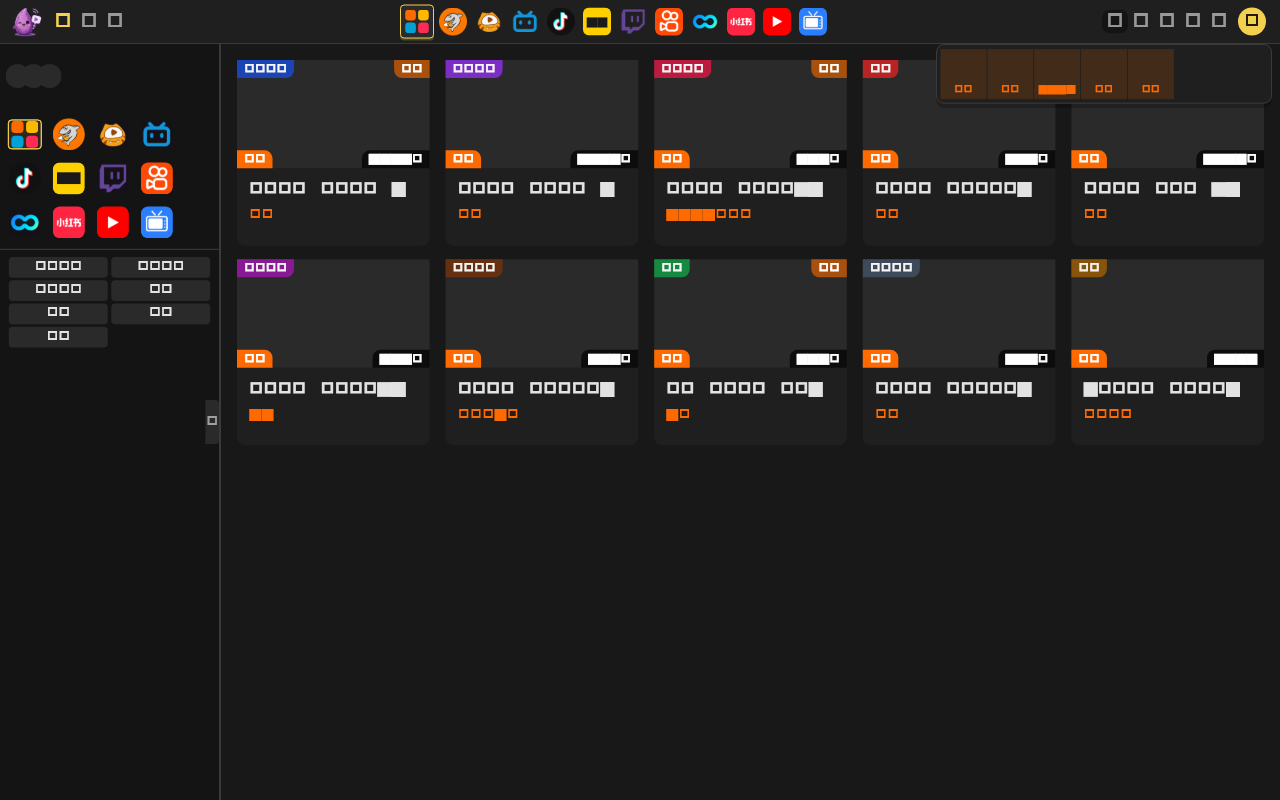
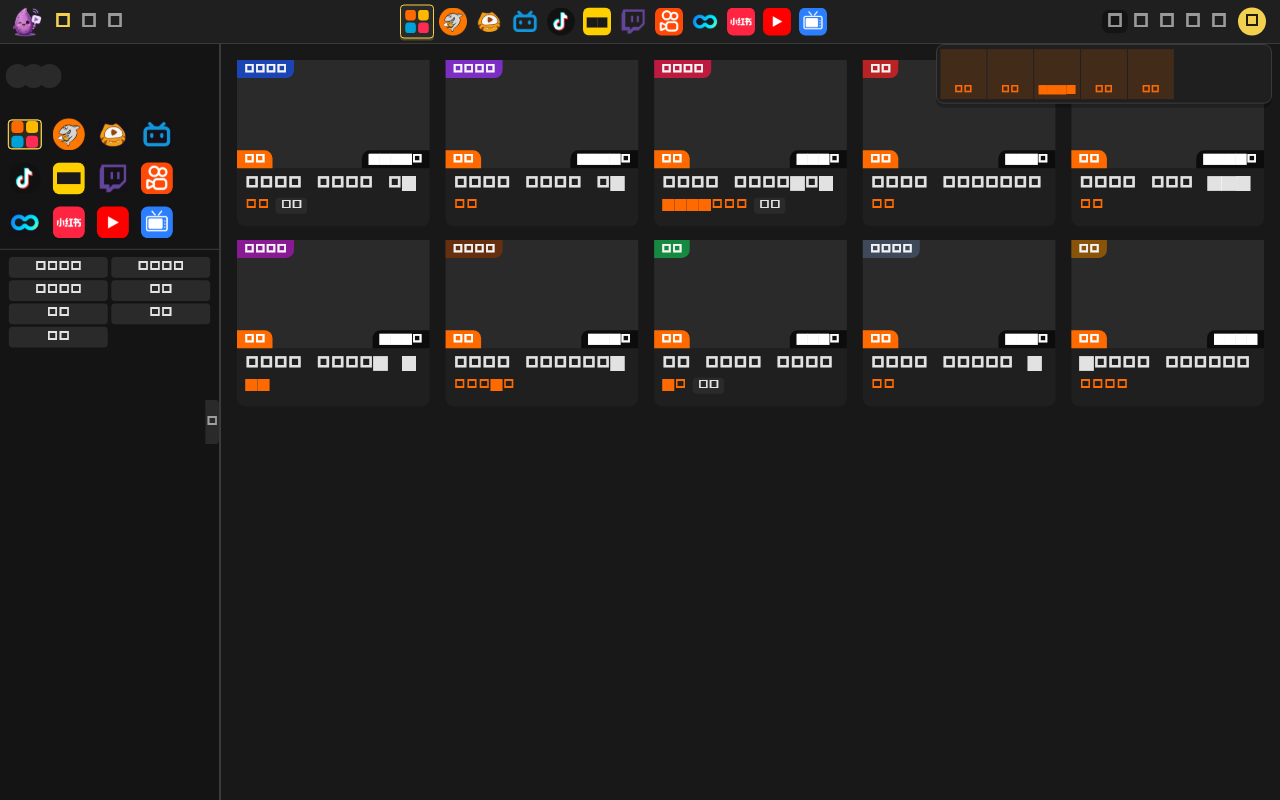
fix(ui): 房间卡元信息恒定两行 + 网格高度预算修正
用户口径:封面下面第一行主播名、第二行各种特色 chip;有的主播/平台没有 chip。
此前元信息行会塌陷、卡片底部还留 ~26px 空白。

- RoomCard:元信息区按参考实现 RoomCard.vue 重做 —— body padding 6/8/8、
  第 1 行房间标题(缺标题回退主播名,都缺则占位不塌陷)、第 2 行固定 17px 行高
  承载「主播名 + 特色 chip」;chip 取促销/画质标签(原本压在封面右上角,同一
  信息不在两处重复)与「平台名(封面平台角标隐藏时)」,并加锚点
  room-meta-chip-{text}。
- RoomGrid:文本区预算 80 → 58(两行元信息实测 54 + 4px 余量),消除卡片底部空白。
- RoomGrid 预算宽修正:此前用「容器宽」算格宽,漏扣 GridView 自身 padding →
  真实格宽比预算窄几个百分点,而元信息行高固定,窄格(category 页 91.5px)出现
  RenderFlex overflowed by 0.663px;现按可用宽计算。
- 测试:新增 room_card_meta_height_test(缺主播名/缺标题/有 chip 三种卡片必须等高、
  特色 chip 就位、平台名 chip 仅在角标隐藏时出现、padding 契约);
  room_card_badges_test 的促销角标断言改为元信息行 chip。

验证:flutter analyze 0 issue;全量除 latency 网络基准(并行轨抢资源)外全绿;
hover_*/follow_style_*/play_style_* golden 重生成并同步截图目录。

diff --git a/lib/src/features/browse/widgets/room_card.dart b/lib/src/features/browse/widgets/room_card.dart
@@ -4,6 +4,7 @@ import 'package:live_parser/live_parser.dart';
 
 import '../../../shared/presentation/design_tokens.dart';
 import '../../../shared/presentation/widgets/cover_badges.dart';
+import '../../../shared/presentation/platform_brands.dart';
 import '../../../shared/presentation/zishu_tokens.dart';
 import '../../follow/widgets/follow_common.dart';
 
@@ -46,31 +47,110 @@ class RoomCard extends StatelessWidget {
           crossAxisAlignment: CrossAxisAlignment.stretch,
           children: [
             _Cover(room: room, showPlatformBadge: showPlatformBadge),
-            Padding(
-              padding: const EdgeInsets.all(AppSpacing.md),
-              child: Column(
-                crossAxisAlignment: CrossAxisAlignment.start,
-                children: [
-                  Text(
-                    room.title,
-                    maxLines: 1,
-                    overflow: TextOverflow.ellipsis,
-                    style: AppTypography.title.copyWith(fontSize: 14),
-                  ),
-                  const SizedBox(height: AppSpacing.sm),
-                  // 分类已由封面左上角色块承载,文本区只保留主播名。
-                  FollowAnchorName(
-                    site: room.site,
-                    name: room.anchorName,
-                    live: room.online.trim().isNotEmpty,
-                    fontSize: 12,
-                    fontWeight: FontWeight.w500,
-                  ),
-                ],
-              ),
+            _RoomCardMeta(
+              room: room,
+              showPlatformBadge: showPlatformBadge,
             ),
           ],
         ),
+      ),
+    );
+  }
+}
+
+/// 封面下元信息:恒定**两行**。
+///
+/// 对齐参考实现 `RoomCard.vue` 的 `.room-card__body`(padding 6/8/8)与
+/// `.room-card__meta`(margin-top 4 / gap 6):
+/// - 第 1 行:房间标题(缺标题回退主播名,仍缺则占位不塌陷);
+/// - 第 2 行:主播名 + 特色 chip(促销/画质标签;单平台网格下平台名也作 chip)。
+///
+/// **两行高度必须恒定**:有的主播没有名字、多数房间没有 chip,若不占位,同一
+/// 网格里卡片高度参差(用户报「都保持2行的行高,不要多余 padding」)。
+class _RoomCardMeta extends StatelessWidget {
+  const _RoomCardMeta({required this.room, required this.showPlatformBadge});
+
+  final RoomSummary room;
+  final bool showPlatformBadge;
+
+  /// 元信息行高:12px 字号 × 1.35 行高(与参考实现 `min-height: 1.35em` 同口径)。
+  static const double _metaLineHeight = 17;
+
+  @override
+  Widget build(BuildContext context) {
+    final title = room.title.trim().isNotEmpty
+        ? room.title
+        : (room.anchorName.trim().isNotEmpty ? room.anchorName : ' ');
+    final anchor = room.anchorName.trim();
+    final chips = <String>[
+      if (room.promoTag != null && room.promoTag!.trim().isNotEmpty)
+        room.promoTag!.trim(),
+      // 平台名在封面左下角标隐藏(单平台网格)时改由 chip 承载,避免信息丢失。
+      if (!showPlatformBadge) ?PlatformBrandCatalog.byId(room.site)?.name,
+    ];
+    return Padding(
+      // 参考实现 .room-card__body:padding 6px 8px 8px。
+      padding: const EdgeInsets.fromLTRB(8, 6, 8, 8),
+      child: Column(
+        crossAxisAlignment: CrossAxisAlignment.start,
+        children: [
+          Text(
+            title,
+            maxLines: 1,
+            overflow: TextOverflow.ellipsis,
+            style: AppTypography.title.copyWith(fontSize: 14),
+          ),
+          const SizedBox(height: AppSpacing.xs),
+          // 固定行高:内容缺失也占满一行,保证同网格卡片等高。
+          SizedBox(
+            height: _metaLineHeight,
+            child: Row(
+              children: [
+                if (anchor.isNotEmpty)
+                  Flexible(
+                    child: FollowAnchorName(
+                      site: room.site,
+                      name: anchor,
+                      live: room.online.trim().isNotEmpty,
+                      fontSize: 12,
+                      fontWeight: FontWeight.w500,
+                    ),
+                  ),
+                if (anchor.isNotEmpty && chips.isNotEmpty)
+                  const SizedBox(width: 6),
+                for (final chip in chips) ...[
+                  _MetaChip(key: Key('room-meta-chip-$chip'), text: chip),
+                  if (chip != chips.last) const SizedBox(width: 6),
+                ],
+              ],
+            ),
+          ),
+        ],
+      ),
+    );
+  }
+}
+
+/// 元信息行里的特色 chip:对齐 `.room-card__tag`(小圆角浅底、次级文字)。
+class _MetaChip extends StatelessWidget {
+  const _MetaChip({super.key, required this.text});
+
+  final String text;
+
+  @override
+  Widget build(BuildContext context) {
+    final tokens = context.tokens;
+    return Container(
+      padding: const EdgeInsets.symmetric(horizontal: 5, vertical: 1),
+      decoration: BoxDecoration(
+        color: tokens.surfaceRaised,
+        borderRadius: AppRadius.allSm,
+      ),
+      child: Text(
+        text,
+        maxLines: 1,
+        overflow: TextOverflow.ellipsis,
+        style: AppTypography.caption.copyWith(fontSize: 10.5),
       ),
     );
   }
@@ -115,17 +195,8 @@ class _Cover extends StatelessWidget {
               cid: room.cid,
             ),
           ),
-          // 右上:促销/画质标签。
-          if (room.promoTag != null)
-            Positioned(
-              right: 0,
-              top: 0,
-              child: CoverPromoBadge(
-                key: const Key('cover-badge-promo'),
-                corner: CoverCorner.topRight,
-                text: room.promoTag!,
-              ),
-            ),
+          // 右上:促销/画质标签已移到封面下方的特色 chip 行(用户口径:
+          // 「预览图下面第二行是各种特色 chip」),同一信息不在封面与行内各显示一次。
           // 右下:热度(未开播不显示)。
           if (live)
             Positioned(

diff --git a/test/ui/workflows/room_card_meta_height_test.dart b/test/ui/workflows/room_card_meta_height_test.dart
@@ -1,0 +1,127 @@
+/// 房间卡元信息区规格测试:恒定**两行**高、无多余 padding、特色 chip 就位。
+///
+/// 用户报:封面下「第一行主播名、第二行特色 chip」,有的主播/平台没有 chip,
+/// 卡片高度就会参差。参考实现 `.room-card__body { padding: 6px 8px 8px }` +
+/// `.room-card__meta { margin-top: 4px; gap: 6px }`,且占位态用 `min-height: 1.35em`
+/// 保持行高。本套用「同宽卡片高度必须全等」把这条钉住。
+library;
+
+import 'package:flutter/material.dart';
+import 'package:flutter_test/flutter_test.dart';
+import 'package:live_parser/live_parser.dart' show RoomSummary;
+import 'package:zishu_flutter/src/app/app_theme.dart';
+import 'package:zishu_flutter/src/features/browse/widgets/room_card.dart';
+
+RoomSummary _room({
+  required String id,
+  String title = '房间标题',
+  String anchor = '主播名',
+  String? promoTag,
+  String online = '1.2万',
+  String category = '英雄联盟',
+}) => RoomSummary(
+  site: 'douyu',
+  roomId: id,
+  title: title,
+  anchorName: anchor,
+  cid: '1',
+  category: category,
+  online: online,
+  cover: '',
+  promoTag: promoTag,
+);
+
+Future<void> _pumpCards(WidgetTester tester, List<Widget> cards) async {
+  await tester.pumpWidget(
+    MaterialApp(
+      theme: ZishuTheme.dark(),
+      home: Scaffold(
+        body: Align(
+          alignment: Alignment.topLeft,
+          child: SizedBox(
+            width: 900,
+            child: Wrap(
+              children: [
+                for (final card in cards) SizedBox(width: 180, child: card),
+              ],
+            ),
+          ),
+        ),
+      ),
+    ),
+  );
+  await tester.pump(const Duration(milliseconds: 50));
+}
+
+double _heightOf(WidgetTester tester, String site, String roomId) =>
+    tester.getSize(find.byKey(Key('room-card-$site-$roomId'))).height;
+
+void main() {
+  testWidgets('两行元信息:有/无主播名与 chip 的卡片高度完全一致', (tester) async {
+    // 三种极端:全有 / 只有标题 / 全空(标题与主播名都没有)。
+    await _pumpCards(tester, [
+      RoomCard(room: _room(id: 'a', promoTag: '超清')),
+      RoomCard(room: _room(id: 'b', anchor: '')),
+      RoomCard(room: _room(id: 'c', title: '', anchor: '')),
+    ]);
+
+    final h = _heightOf(tester, 'douyu', 'a');
+    expect(h, _heightOf(tester, 'douyu', 'b'), reason: '缺主播名不得塌陷一行');
+    expect(h, _heightOf(tester, 'douyu', 'c'), reason: '标题与主播名都缺也不得塌陷');
+    expect(tester.takeException(), isNull);
+  });
+
+  testWidgets('第二行:主播名 + 特色 chip(促销标签)', (tester) async {
+    await _pumpCards(tester, [
+      RoomCard(room: _room(id: 'a', promoTag: '超清')),
+      RoomCard(room: _room(id: 'b')),
+    ]);
+
+    expect(find.text('主播名'), findsNWidgets(2), reason: '两行里的主播名一行一个');
+    expect(
+      find.byKey(const Key('room-meta-chip-超清')),
+      findsOneWidget,
+      reason: '促销/画质标签作为「特色 chip」显示在封面下方,不在封面上重复',
+    );
+    expect(find.text('超清'), findsOneWidget, reason: '同一信息只出现一次');
+    // 没有 chip 的卡片与有 chip 的卡片同高(行高恒定)。
+    expect(
+      _heightOf(tester, 'douyu', 'b'),
+      _heightOf(tester, 'douyu', 'a'),
+    );
+  });
+
+  testWidgets('单平台网格:平台名改由 chip 承载,跨平台网格不重复显示', (tester) async {
+    await _pumpCards(
+      tester,
+      [RoomCard(room: _room(id: 'a'), showPlatformBadge: false)],
+    );
+    expect(
+      find.byKey(const Key('room-meta-chip-斗鱼')),
+      findsOneWidget,
+      reason: '平台角标隐藏时平台名进 chip',
+    );
+
+    await _pumpCards(tester, [RoomCard(room: _room(id: 'a'))]);
+    expect(
+      find.byKey(const Key('room-meta-chip-斗鱼')),
+      findsNothing,
+      reason: '平台角标已在封面左下角,行内不再重复',
+    );
+  });
+
+  testWidgets('body padding 对齐参考实现 6/8/8', (tester) async {
+    await _pumpCards(tester, [RoomCard(room: _room(id: 'a'))]);
+    // 元信息区是封面之后的第一层 Padding。
+    final paddings = tester
+        .widgetList<Padding>(find.byType(Padding))
+        .map((p) => p.padding)
+        .whereType<EdgeInsets>()
+        .toList();
+    expect(
+      paddings,
+      contains(const EdgeInsets.fromLTRB(8, 6, 8, 8)),
+      reason: '参考实现 .room-card__body padding: 6px 8px 8px',
+    );
+  });
+}

diff --git a/lib/src/features/browse/widgets/room_grid.dart b/lib/src/features/browse/widgets/room_grid.dart
@@ -78,10 +78,15 @@ class _RoomGridState extends State<RoomGrid> {
         // 左栏挤到 640 档退成 3 列,与参考断点不符。
         final viewportWidth = MediaQuery.sizeOf(context).width;
         final columns = AppRoomGrid.columnsFor(viewportWidth);
-        // 卡片实际宽 = 内容区宽(containerWidth)均分(扣列间距),卡高比例必须按
-        // 实际宽算;用视口宽会导致左栏存在时卡片溢出。
+        // 卡片实际宽 = **扣掉 GridView 自身 padding 后**的内容区宽均分(再扣列间距);
+        // 卡高比例必须按这个真实格宽算:
+        //   · 用视口宽 → 左侧目录栏存在时卡片溢出;
+        //   · 忘扣 padding → 预算宽比真实格宽大几个百分点,而元信息行高是固定值,
+        //     于是格高按比例缩水后装不下固定行高,出现「overflowed by 0.6xx pixels」
+        //     (category 页 91.5px 窄格实测)。
+        final available = width - widget.padding.horizontal;
         final cardWidth =
-            (width - AppSpacing.gridCrossAxisSpacing * (columns - 1)) / columns;
+            (available - AppSpacing.gridCrossAxisSpacing * (columns - 1)) / columns;
         return GridView.builder(
           controller: _controller,
           padding: widget.padding,
@@ -89,11 +94,13 @@ class _RoomGridState extends State<RoomGrid> {
             crossAxisCount: columns,
             mainAxisSpacing: AppSpacing.gridMainAxisSpacing,
             crossAxisSpacing: AppSpacing.gridCrossAxisSpacing,
-            // 80 = 文本区预算(标题 18.9 + 间距 8 + 主播行 16.8 + padding 24 = 67.7)
-            // + 12px 余量,覆盖测试字体(Ahem)与真实字体的行高差,防止 2~6px 级溢出;
+            // 文本区预算 = 两行元信息(与 RoomCard._RoomCardMeta 严格同源):
+            //   padding 6+8 = 14,标题行 14×1.35 ≈ 18.9,间距 4,特色 chip 行 17
+            //   → 53.9;取 58 留 ~4px 覆盖测试字体(Ahem)与真实字体的行高差。
+            // 旧值 80 会在卡片底部留 ~26px 空白(用户报「不要多余 padding」);
             // 大字体下再按 metaHeightFor 同步放大,避免纵向溢出(W11)。
             childAspectRatio:
-                cardWidth / (cardWidth * 9 / 16 + metaHeightFor(80, context)),
+                cardWidth / (cardWidth * 9 / 16 + metaHeightFor(58, context)),
           ),
           itemCount: rooms.length + footerCount,
           itemBuilder: (context, index) {

diff --git a/test/ui/workflows/room_card_badges_test.dart b/test/ui/workflows/room_card_badges_test.dart
@@ -198,14 +198,23 @@ void main() {
       ),
       CoverCorner.topLeft,
     );
-    _expectCorner(
-      tester,
-      card,
+    // 促销/画质标签不再压在封面右上角,而是封面下方元信息行的「特色 chip」
+    // (用户口径:预览图下面第二行是各种特色 chip;同一信息不在两处重复)。
+    expect(
+      find.descendant(
+        of: card,
+        matching: find.byKey(const Key('room-meta-chip-官方')),
+      ),
+      findsOneWidget,
+      reason: '促销标签应作为元信息行 chip 出现',
+    );
+    expect(
       find.descendant(
         of: card,
         matching: find.byKey(const Key('cover-badge-promo')),
       ),
-      CoverCorner.topRight,
+      findsNothing,
+      reason: '封面右上不再重复渲染促销角标',
     );
     _expectCorner(
       tester,
